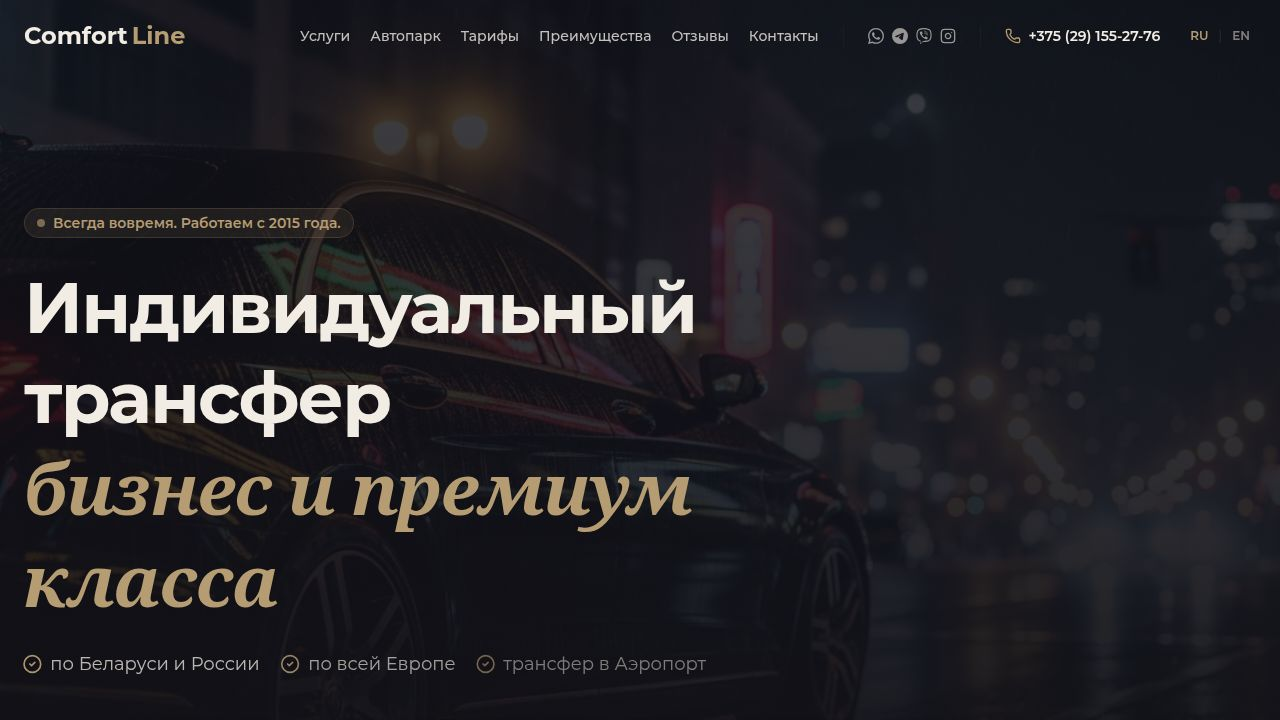
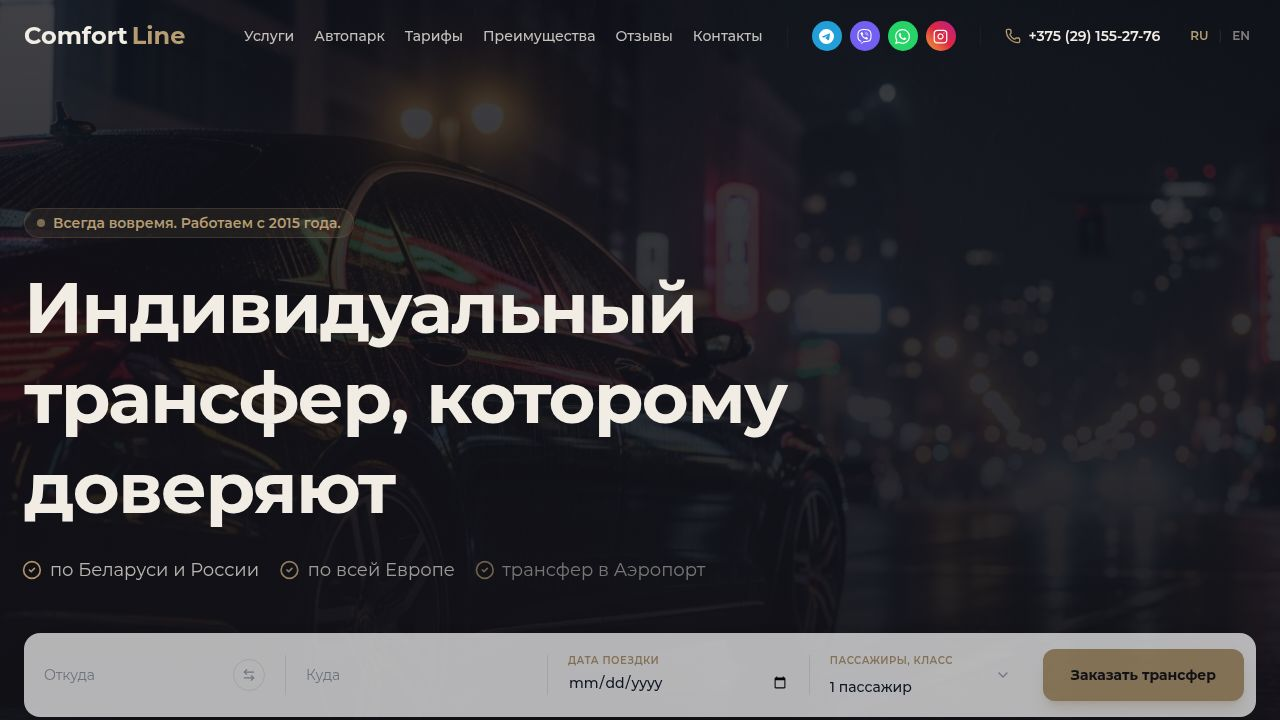
Update pricing section with route tabs and real prices
Refactor the Pricing component to support route-based tabs, updating the data structure in language context and enhancing the UI for displaying diverse pricing plans.

Replit-Commit-Author: Agent
Replit-Commit-Session-Id: f96f2f93-1595-4d47-ad08-f0e81ac0dd7f
Replit-Commit-Checkpoint-Type: full_checkpoint
Replit-Commit-Event-Id: a299c04e-db2a-48ed-9ae6-84ab4053ab95
Replit-Commit-Screenshot-Url: https://storage.googleapis.com/screenshot-production-us-central1/cfb9d050-eac5-4e45-8ae6-95fe910dad93/f96f2f93-1595-4d47-ad08-f0e81ac0dd7f/zTpEiOZ
Replit-Helium-Checkpoint-Created: true

diff --git a/artifacts/comfortline-website/src/components/sections/Pricing.tsx b/artifacts/comfortline-website/src/components/sections/Pricing.tsx
@@ -1,67 +1,96 @@
+import { useState } from "react";
 import { Check } from "lucide-react";
-import { motion } from "framer-motion";
+import { motion, AnimatePresence } from "framer-motion";
 import { Button } from "@/components/ui/button";
 import { useLang } from "@/context/language-context";
 
-const prices = ["from $75", "from $85", "from $80", "from $120"];
-const popularIndex = 1;
-
 export function Pricing() {
   const { t } = useLang();
+  const [activeRoute, setActiveRoute] = useState(0);
+  const route = t.pricing.routes[activeRoute];
+  const isWide = route.plans.length >= 4;
 
   return (
     <section id="prices" className="py-24 bg-background relative overflow-hidden">
-      <div className="absolute top-0 right-0 -mr-40 -mt-40 w-96 h-96 bg-primary/5 rounded-full blur-3xl"></div>
-      <div className="absolute bottom-0 left-0 -ml-40 -mb-40 w-96 h-96 bg-primary/5 rounded-full blur-3xl"></div>
+      <div className="absolute top-0 right-0 -mr-40 -mt-40 w-96 h-96 bg-primary/5 rounded-full blur-3xl" />
+      <div className="absolute bottom-0 left-0 -ml-40 -mb-40 w-96 h-96 bg-primary/5 rounded-full blur-3xl" />
 
       <div className="container mx-auto px-4 md:px-6 relative z-10">
-        <div className="text-center max-w-2xl mx-auto mb-16">
+        <div className="text-center max-w-2xl mx-auto mb-12">
           <h2 className="text-primary font-semibold tracking-wider uppercase text-sm mb-3">{t.pricing.label}</h2>
           <h3 className="text-3xl md:text-4xl font-bold text-foreground">{t.pricing.heading}</h3>
           <p className="text-muted-foreground mt-4">{t.pricing.subheading}</p>
-          <div className="w-20 h-1 bg-primary mx-auto mt-6 rounded-full"></div>
+          <div className="w-20 h-1 bg-primary mx-auto mt-6 rounded-full" />
         </div>
 
-        <div className="grid grid-cols-1 md:grid-cols-2 lg:grid-cols-4 gap-6">
-          {t.pricing.plans.map((plan, index) => (
-            <motion.div
-              key={index}
-              initial={{ opacity: 0, y: 20 }}
-              whileInView={{ opacity: 1, y: 0 }}
-              viewport={{ once: true }}
-              transition={{ duration: 0.5, delay: index * 0.1 }}
-              className={`bg-card border rounded-2xl p-6 flex flex-col h-full relative ${
-                index === popularIndex ? 'border-primary shadow-lg shadow-primary/10' : 'border-border'
+        {/* Route tabs */}
+        <div className="flex flex-wrap justify-center gap-3 mb-10">
+          {t.pricing.routes.map((r, i) => (
+            <button
+              key={i}
+              onClick={() => setActiveRoute(i)}
+              className={`px-5 py-2.5 rounded-full text-sm font-semibold transition-all ${
+                activeRoute === i
+                  ? "bg-primary text-primary-foreground shadow-md shadow-primary/20"
+                  : "bg-muted text-muted-foreground hover:text-foreground"
               }`}
             >
-              {index === popularIndex && (
-                <div className="absolute top-0 left-1/2 -translate-x-1/2 -translate-y-1/2 bg-primary text-primary-foreground text-xs font-bold px-3 py-1 rounded-full">
-                  {t.pricing.popular}
-                </div>
-              )}
-
-              <h4 className="text-lg font-medium text-muted-foreground mb-2">{plan.name}</h4>
-              <div className="text-4xl font-bold text-foreground mb-6">{prices[index]}</div>
-
-              <ul className="space-y-3 mb-8 flex-1">
-                {plan.features.map((feature, i) => (
-                  <li key={i} className="flex items-start gap-3 text-sm text-card-foreground">
-                    <Check className="h-5 w-5 text-primary shrink-0" />
-                    <span>{feature}</span>
-                  </li>
-                ))}
-              </ul>
-
-              <Button
-                variant={index === popularIndex ? "default" : "outline"}
-                className={`w-full mt-auto ${index === popularIndex ? 'shadow-md shadow-primary/20' : ''}`}
-                asChild
-              >
-                <a href="#contact">{t.pricing.book}</a>
-              </Button>
-            </motion.div>
+              {r.name}
+            </button>
           ))}
         </div>
+
+        <AnimatePresence mode="wait">
+          <motion.div
+            key={activeRoute}
+            initial={{ opacity: 0, y: 12 }}
+            animate={{ opacity: 1, y: 0 }}
+            exit={{ opacity: 0, y: -8 }}
+            transition={{ duration: 0.25 }}
+            className={`grid gap-6 ${
+              isWide
+                ? "grid-cols-1 sm:grid-cols-2 lg:grid-cols-3 xl:grid-cols-5"
+                : "grid-cols-1 md:grid-cols-3 max-w-3xl mx-auto"
+            }`}
+          >
+            {route.plans.map((plan, index) => (
+              <div
+                key={index}
+                className={`bg-card border rounded-2xl p-6 flex flex-col h-full relative ${
+                  plan.popular
+                    ? "border-primary shadow-lg shadow-primary/10"
+                    : "border-border"
+                }`}
+              >
+                {plan.popular && (
+                  <div className="absolute top-0 left-1/2 -translate-x-1/2 -translate-y-1/2 bg-primary text-primary-foreground text-xs font-bold px-3 py-1 rounded-full whitespace-nowrap">
+                    {t.pricing.popular}
+                  </div>
+                )}
+
+                <h4 className="text-sm font-medium text-muted-foreground mb-2 leading-snug">{plan.name}</h4>
+                <div className="text-3xl font-bold text-foreground mb-5">{plan.price}</div>
+
+                <ul className="space-y-2.5 mb-6 flex-1">
+                  {plan.features.map((feature, i) => (
+                    <li key={i} className="flex items-start gap-2.5 text-sm text-card-foreground">
+                      <Check className="h-4 w-4 text-primary shrink-0 mt-0.5" />
+                      <span>{feature}</span>
+                    </li>
+                  ))}
+                </ul>
+
+                <Button
+                  variant={plan.popular ? "default" : "outline"}
+                  className={`w-full mt-auto ${plan.popular ? "shadow-md shadow-primary/20" : ""}`}
+                  asChild
+                >
+                  <a href="#contact">{t.pricing.book}</a>
+                </Button>
+              </div>
+            ))}
+          </motion.div>
+        </AnimatePresence>
       </div>
     </section>
   );

diff --git a/artifacts/comfortline-website/src/context/language-context.tsx b/artifacts/comfortline-website/src/context/language-context.tsx
@@ -98,7 +98,10 @@ interface Translations {
     subheading: string;
     popular: string;
     book: string;
-    plans: { name: string; features: string[] }[];
+    routes: {
+      name: string;
+      plans: { name: string; price: string; features: string[]; popular?: boolean }[];
+    }[];
   };
   advantages: {
     label: string;
@@ -239,15 +242,37 @@ const ru: Translations = {
   },
   pricing: {
     label: "Тарифы",
-    heading: "Трансфер в Аэропорт Минск",
-    subheading: "Фиксированные цены на поездки из Минска в Национальный аэропорт или обратно.",
+    heading: "Цены на трансфер",
+    subheading: "Выберите направление — фиксированные цены на популярные маршруты.",
     popular: "Популярный выбор",
     book: "Заказать",
-    plans: [
-      { name: "Седан (до 4 чел.) — Эконом", features: ["Встреча с табличкой", "Помощь с багажом", "Детское кресло по запросу", "Ожидание при задержке рейса"] },
-      { name: "Седан (до 4 чел.) — Комфорт", features: ["Встреча с табличкой", "Помощь с багажом", "Детское кресло по запросу", "Wi-Fi в салоне", "Вода для пассажиров"] },
-      { name: "Универсал (до 4 чел.)", features: ["Встреча с табличкой", "Увеличенный багажник", "Детское кресло по запросу", "Ожидание при задержке рейса"] },
-      { name: "Микроавтобус (до 8 чел.)", features: ["Встреча с табличкой", "Много места для багажа", "Подходит для групп", "Детские кресла по запросу"] },
+    routes: [
+      {
+        name: "Минск → Аэропорт",
+        plans: [
+          { name: "Легковая — Эконом", price: "от 70 руб", features: ["Встреча с табличкой", "Помощь с багажом", "Детское кресло по запросу", "Ожидание при задержке рейса"] },
+          { name: "Комфорт", price: "от 85 руб", popular: true, features: ["Встреча с табличкой", "Помощь с багажом", "Wi-Fi в салоне", "Вода для пассажиров"] },
+          { name: "Бизнес", price: "от 130 руб", features: ["Mercedes E-Class", "Встреча с табличкой", "Wi-Fi в салоне", "Вода для пассажиров"] },
+          { name: "Минивэн (до 6 чел.)", price: "от 110 руб", features: ["Kia Carnival", "Встреча с табличкой", "Много места для багажа", "Детское кресло по запросу"] },
+          { name: "Микроавтобус (до 8 чел.)", price: "от 150 руб", features: ["Fiat Scudo", "Встреча с табличкой", "Подходит для групп", "Детские кресла по запросу"] },
+        ],
+      },
+      {
+        name: "Минск → Вильнюс",
+        plans: [
+          { name: "Легковой авто", price: "от 250 €", features: ["Сопровождение до двери", "Помощь с багажом", "Ожидание при задержке"] },
+          { name: "Минивэн", price: "от 300 €", popular: true, features: ["Kia Carnival, до 7 пас.", "Сопровождение до двери", "Много места для багажа"] },
+          { name: "Бизнес", price: "от 350 €", features: ["Mercedes E-Class", "Сопровождение до двери", "Wi-Fi в салоне"] },
+        ],
+      },
+      {
+        name: "Минск → Варшава",
+        plans: [
+          { name: "Легковая", price: "от 400 €", features: ["Сопровождение до двери", "Помощь с багажом", "Ожидание при задержке"] },
+          { name: "Бизнес", price: "от 450 €", features: ["Mercedes E-Class", "Сопровождение до двери", "Wi-Fi в салоне"] },
+          { name: "Минивэн", price: "от 470 €", popular: true, features: ["Kia Carnival, до 7 пас.", "Сопровождение до двери", "Много места для багажа"] },
+        ],
+      },
     ],
   },
   advantages: {
@@ -400,15 +425,37 @@ const en: Translations = {
   },
   pricing: {
     label: "Rates",
-    heading: "Airport Transfer — Minsk",
-    subheading: "Fixed prices for transfers from Minsk to the National Airport and back.",
+    heading: "Transfer Prices",
+    subheading: "Select a route — fixed rates on all popular destinations.",
     popular: "Most popular",
     book: "Book",
-    plans: [
-      { name: "Sedan (up to 4 pax) — Economy", features: ["Meet & greet with name board", "Luggage assistance", "Child seat on request", "Wait for delayed flights"] },
-      { name: "Sedan (up to 4 pax) — Comfort", features: ["Meet & greet with name board", "Luggage assistance", "Child seat on request", "In-car Wi-Fi", "Water for passengers"] },
-      { name: "Estate (up to 4 pax)", features: ["Meet & greet with name board", "Larger boot space", "Child seat on request", "Wait for delayed flights"] },
-      { name: "Minivan (up to 8 pax)", features: ["Meet & greet with name board", "Ample luggage space", "Suitable for groups", "Child seats on request"] },
+    routes: [
+      {
+        name: "Minsk → Airport",
+        plans: [
+          { name: "Sedan — Economy", price: "from 70 BYN", features: ["Meet & greet with board", "Luggage assistance", "Child seat on request", "Wait for delayed flights"] },
+          { name: "Comfort", price: "from 85 BYN", popular: true, features: ["Meet & greet with board", "Luggage assistance", "In-car Wi-Fi", "Water for passengers"] },
+          { name: "Business", price: "from 130 BYN", features: ["Mercedes E-Class", "Meet & greet with board", "In-car Wi-Fi", "Water for passengers"] },
+          { name: "Minivan (up to 6 pax)", price: "from 110 BYN", features: ["Kia Carnival", "Meet & greet with board", "Ample luggage space", "Child seat on request"] },
+          { name: "Minibus (up to 8 pax)", price: "from 150 BYN", features: ["Fiat Scudo", "Meet & greet with board", "Suitable for groups", "Child seats on request"] },
+        ],
+      },
+      {
+        name: "Minsk → Vilnius",
+        plans: [
+          { name: "Sedan", price: "from 250 €", features: ["Door-to-door service", "Luggage assistance", "Wait for delays"] },
+          { name: "Minivan", price: "from 300 €", popular: true, features: ["Kia Carnival, up to 7 pax", "Door-to-door service", "Ample luggage space"] },
+          { name: "Business", price: "from 350 €", features: ["Mercedes E-Class", "Door-to-door service", "In-car Wi-Fi"] },
+        ],
+      },
+      {
+        name: "Minsk → Warsaw",
+        plans: [
+          { name: "Sedan", price: "from 400 €", features: ["Door-to-door service", "Luggage assistance", "Wait for delays"] },
+          { name: "Business", price: "from 450 €", features: ["Mercedes E-Class", "Door-to-door service", "In-car Wi-Fi"] },
+          { name: "Minivan", price: "from 470 €", popular: true, features: ["Kia Carnival, up to 7 pax", "Door-to-door service", "Ample luggage space"] },
+        ],
+      },
     ],
   },
   advantages: {